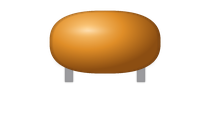
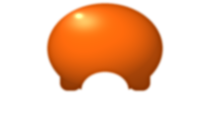
fix(level1): improve capacitor physical rendering
Project Canvas Gate rejected Candidate C's flat oval silhouette while confirming the dynamic capacitance-marking logic. Replace only the CAPACITOR physical presentation with a rounder glossy orange ceramic-disc body and polished metallic lead styling, preserving all electrical geometry, marking logic, defaults, persistence, solver and connectivity contracts.

Also restores README.md byte-for-byte after an intermediate connector sentinel write. No force update is used.

MB-L1-PROP-005 remains open pending CTO Canvas validation.

diff --git a/frontend/src/visualization/assemblyProfiles.js b/frontend/src/visualization/assemblyProfiles.js
@@ -10,7 +10,7 @@
 /**
  * @typedef {Object} AssemblyProfile
  * @property {'through-hole'} kind
- * @property {Record<string, { root: LocalPoint, style?: 'wire'|'lug' }>} leads
+ * @property {Record<string, { root: LocalPoint, style?: 'wire'|'wire-glossy'|'lug' }>} leads
  * @property {{ bottom: number }} [bodyClip]
  */
 
@@ -41,11 +41,14 @@ const ASSEMBLY_PROFILES = {
   CAPACITOR: {
     kind: "through-hole",
     leads: {
-      pinA: { root: { dx: 23, dy: 27 }, style: "wire" },
-      pinB: { root: { dx: 47, dy: 27 }, style: "wire" },
+      // MB-L1-PROP-005 V2 visual correction: keep the exact mechanical
+      // roots/contacts, only upgrade the presentation material to polished
+      // nickel/tin so the leads read like the realistic resistor leads.
+      pinA: { root: { dx: 23, dy: 27 }, style: "wire-glossy" },
+      pinB: { root: { dx: 47, dy: 27 }, style: "wire-glossy" },
     },
   },
-  // FT-C-COMP-002 — condensateur électrolytique polarisé. Le raster montre
+  // FT-C-COMP-002 — condensateur électrolytique radial polarisé. Le raster montre
   // déjà de longues pattes cuites : `bodyClip.bottom = 68` masque tout ce qui
   // est sous y=52. AssemblyLeadsLayer dessine ensuite les pattes fonctionnelles
   // depuis y=48 jusqu'aux PhysicalContacts y=80, soit ~32 px — longueur
@@ -60,15 +63,14 @@ const ASSEMBLY_PROFILES = {
     bodyClip: { bottom: 68 },
   },
   // FT-C-COMP-004 — buzzer piézo traversant (asset 120×120). Les deux pattes
-  // métalliques sont cuites dans le raster (x≈42 / 77, y≈79..114), suivies
-  // d'une ombre de contact pâle et large. `bodyClip.bottom = 42` masque tout
-  // ce qui est sous y=78 (les pattes cuites + l'ombre parasite) tout en
-  // CONSERVANT l'intégralité du corps cylindrique noir, le trou acoustique et
-  // le symbole « + ». AssemblyLeadsLayer dessine ensuite les deux pattes
-  // fonctionnelles fines et droites (style `wire`) depuis la racine
-  // (dx 42 / 78, dy 76, alignée sur les pieds visibles) jusqu'aux
-  // PhysicalContacts (dy 108) — longueur ~32 px, harmonisée avec
-  // LED / LDR / THERMISTOR / POLARIZED_CAPACITOR.
+  // métalliques sont cuites dans le raster autour de x≈42 / 77, y≈79..114
+  // (probe pixel ; PO probe 44 / 76, entraxe 32). Pour l'insertion breadboard
+  // les deux PhysicalContacts fonctionnels sont recalés à dx 42 / 78 (entraxe
+  // 36 = 3 × BREADBOARD_PITCH exact, centrés sur les deux pieds visibles) et
+  // dy 108 (= probe `canonical.pins` du manifeste ; 9 × BREADBOARD_PITCH).
+  // AssemblyLeadsLayer relie racine visuelle → contact (pattes fines droites).
+  // IDs, rôles et modèle électrique (plus / minus, role input) INCHANGÉS —
+  // aucune nouvelle simulation, aucun état "on".
   BUZZER: {
     kind: "through-hole",
     leads: {
@@ -96,17 +98,10 @@ const ASSEMBLY_PROFILES = {
     },
     bodyClip: { bottom: 35 },
   },
-  // FT-C-COMP-003 — potentiomètre rotatif (asset 120×120). Les 3 cosses sont
-  // cuites dans le raster. Le clip s'arrête maintenant à y=100
-  // (`bodyClip.bottom = 20`) afin de CONSERVER toute l'embase bleue visible
-  // au-dessus des trois pattes. L'ancien clip à y=88 supprimait justement la
-  // partie basse bleue de l'asset et donnait l'impression que les cosses
-  // fonctionnelles naissaient directement sous le corps métallique.
-  // AssemblyLeadsLayer garde les racines à dx 42 / 60 / 78, dy 86 : cette
-  // portion est peinte derrière le raster puis n'émerge qu'après l'embase,
-  // vers y=100, jusqu'aux PhysicalContacts. On conserve ainsi le léger
-  // évasement des cosses extérieures et le wiper vertical, sans modifier les
-  // identités électriques left / wiper / right.
+  // FT-C-COMP-003 — potentiomètre rotatif réaliste (asset 120×120). Les 3
+  // cosses métalliques verticales sont cuites dans le raster autour de
+  // x≈42 / 60 / 78. AssemblyLeadsLayer garde les racines à dx 42 / 60 / 78,
+  // dy 86 ; les cosses fonctionnelles restent indépendantes du raster.
   POTENTIOMETER: {
     kind: "through-hole",
     leads: {

diff --git a/frontend/src/components/assembly/AssemblyLeadsLayer.css b/frontend/src/components/assembly/AssemblyLeadsLayer.css
@@ -1,24 +1,33 @@
 /* FT-C-001-A — pattes / cosses d'assemblage génériques.
    Aucun sélecteur par type de composant : le style vient de la classe
-   `--wire` / `--lug` posée d'après le profil mécanique de présentation. */
+   `--wire` / `--wire-glossy` / `--lug` posée d'après le profil mécanique de présentation. */
 
 .assembly-leads {
-  /* la couche ne capte jamais le pointeur (drag/sélection/câblage = wrapper + <Pin>) */
   pointer-events: none;
 }
 
 .assembly-leads__lead {
   fill: none;
   stroke-linecap: round;
-  /* Pas de vector-effect : la patte est dans le repère local du composant et
-     doit se mettre à l'échelle avec le corps, les <Pin> et les fils sous
-     l'effet du zoom global et du localScale de focus (ruling §29). */
 }
 
-/* Fil métallique fin (LED, NPN) — patte nickelée. */
+/* Fil métallique fin standard (LED, NPN, etc.). */
 .assembly-leads__lead--wire {
   stroke: #9aa1a9;
   stroke-width: 2.4;
+}
+
+/* MB-L1-PROP-005 V2 — métal poli pour les pattes du condensateur céramique.
+   Le corps de la patte reste une seule primitive SVG / un seul hit-independent
+   segment : aucune géométrie électrique n'est dupliquée. Les deux ombres
+   latérales très courtes créent un bord sombre + un reflet blanc, comme sur
+   les pattes raster réalistes du RESISTOR, sans modifier root/target. */
+.assembly-leads__lead--wire-glossy {
+  stroke: #cfd5dc;
+  stroke-width: 2.5;
+  filter:
+    drop-shadow(-0.65px 0 0 rgba(255, 255, 255, 0.95))
+    drop-shadow(0.65px 0 0 rgba(63, 72, 82, 0.8));
 }
 
 /* Cosse plate (potentiomètre) — languette cuivre/étain, plus large. */

diff --git a/frontend/src/visualization/__tests__/capacitorVisualV2.test.js b/frontend/src/visualization/__tests__/capacitorVisualV2.test.js
@@ -1,0 +1,18 @@
+import { describe, it, expect } from 'vitest'
+import { getAssemblyProfile } from '../assemblyProfiles.js'
+
+describe('MB-L1-PROP-005 V2 — capacitor physical visual correction', () => {
+  it('keeps CAPACITOR mechanical roots unchanged and upgrades only the lead material style', () => {
+    const profile = getAssemblyProfile('CAPACITOR')
+    expect(profile.kind).toBe('through-hole')
+    expect(profile.leads.pinA.root).toEqual({ dx: 23, dy: 27 })
+    expect(profile.leads.pinB.root).toEqual({ dx: 47, dy: 27 })
+    expect(profile.leads.pinA.style).toBe('wire-glossy')
+    expect(profile.leads.pinB.style).toBe('wire-glossy')
+  })
+
+  it('does not change neighboring through-hole styles', () => {
+    expect(getAssemblyProfile('LED').leads.anode.style).toBe('wire')
+    expect(getAssemblyProfile('POTENTIOMETER').leads.left.style).toBe('lug')
+  })
+})

diff --git a/docs/pmo/delivery-reports/MB-L1-PROP-005-visual-correction-v2.md b/docs/pmo/delivery-reports/MB-L1-PROP-005-visual-correction-v2.md
@@ -1,0 +1,43 @@
+# MB-L1-PROP-005 — Visual Correction V2
+
+**Status:** IMPLEMENTED BY CSA — PROJECT CANVAS GATE PENDING.
+
+## Trigger
+
+The first Project Canvas Gate confirmed that the capacitance-to-marking logic works (`104`, `102`, `101`, independent instances), but the Candidate C body was rejected visually by the CTO: the silhouette remained too flat/oval and the leads did not read as polished metal.
+
+## CSA ruling
+
+Keep all validated Product Model logic unchanged. Correct only the physical presentation:
+
+- replace `capacitor.base.*` with a rounder, taller glossy orange radial ceramic-disc body;
+- preserve the neutral raster rule: no `104` or any capacitance value is baked into the image;
+- preserve the 70×40 / 210×120 canonical raster contract;
+- preserve CAPACITOR assembly roots `(23,27)` / `(47,27)` and PhysicalContacts `(23,62)` / `(47,62)`;
+- upgrade only the presentation style of CAPACITOR leads from `wire` to `wire-glossy`, using a bright nickel/tin stroke with white/dark edge reflections;
+- do not modify `capacitorMarking.js`, `CapacitorPart.jsx`, `canonicalRegistry.js`, Document/History/export, solver, breadboard or wires.
+
+## New base asset hashes
+
[4 lines of base64/hex data omitted]
+
+The four legacy `capacitor.default.*` entries and hashes remain unchanged.
+
+## Files changed in V2
+
+- `frontend/public/assets/components/capacitor/capacitor.base.1x.png`
+- `frontend/public/assets/components/capacitor/capacitor.base.1x.webp`
+- `frontend/public/assets/components/capacitor/capacitor.base.3x.png`
+- `frontend/public/assets/components/capacitor/capacitor.base.3x.webp`
+- `frontend/public/assets/components/capacitor/manifest.json`
+- `frontend/public/assets/components/capacitor/ASSET-INTEGRITY.json`
+- `frontend/src/visualization/assemblyProfiles.js`
+- `frontend/src/components/assembly/AssemblyLeadsLayer.css`
+- `frontend/src/visualization/__tests__/capacitorVisualV2.test.js`
+
+## Final gate
+
+The correction remains OPEN until the CTO validates the real Canvas appearance. Functional marking logic is not reopened by this correction.

diff --git a/README.md b/README.md
@@ -1,34 +1,23 @@
-# MyBlab v0.3
+# MYBlab
 
-Dépôt de développement du projet MyBlab.
+MYBlab est une plateforme de conception et de simulation de circuits électroniques inspirée de Tinkercad. Le projet a pour objectif de fournir un environnement moderne permettant la création, la simulation et, à terme, la programmation de systèmes électroniques et Arduino.
 
-## Structure
+## Version
 
-- `frontend/` : application React (Vite)
-- `backend/` : serveur Node.js / Express
-- `docs/` : documentation (API, architecture, changelog)
-- `bundles/` : bundles Git de livraison
-- `audit/` : rapports d’audit
-- `.github/workflows/` : CI (ci.yml)
+**v0.3.0**
 
-## Démarrage rapide (frontend)
+## Structure du dépôt
 
-```bash
-cd frontend
-npm ci
-npm run dev
+```
+myblab_v0.3/
+├── backend/
+├── docs/
+├── frontend/
+└── README.md
 ```
 
-## CI
+## État du projet
 
-Workflow : `.github/workflows/ci.yml`
+Le projet est actuellement en développement.
 
-Étapes :
-1. `npm ci`
-2. `npm run lint`
-3. `npm test -- --run`
-4. `npm run build`
-
-## Remarque
-
-Le backend contient actuellement un `package.json` minimal (placeholder).
+Le Milestone A (Foundations) est terminé et constitue la base de l'architecture de MYBlab.
